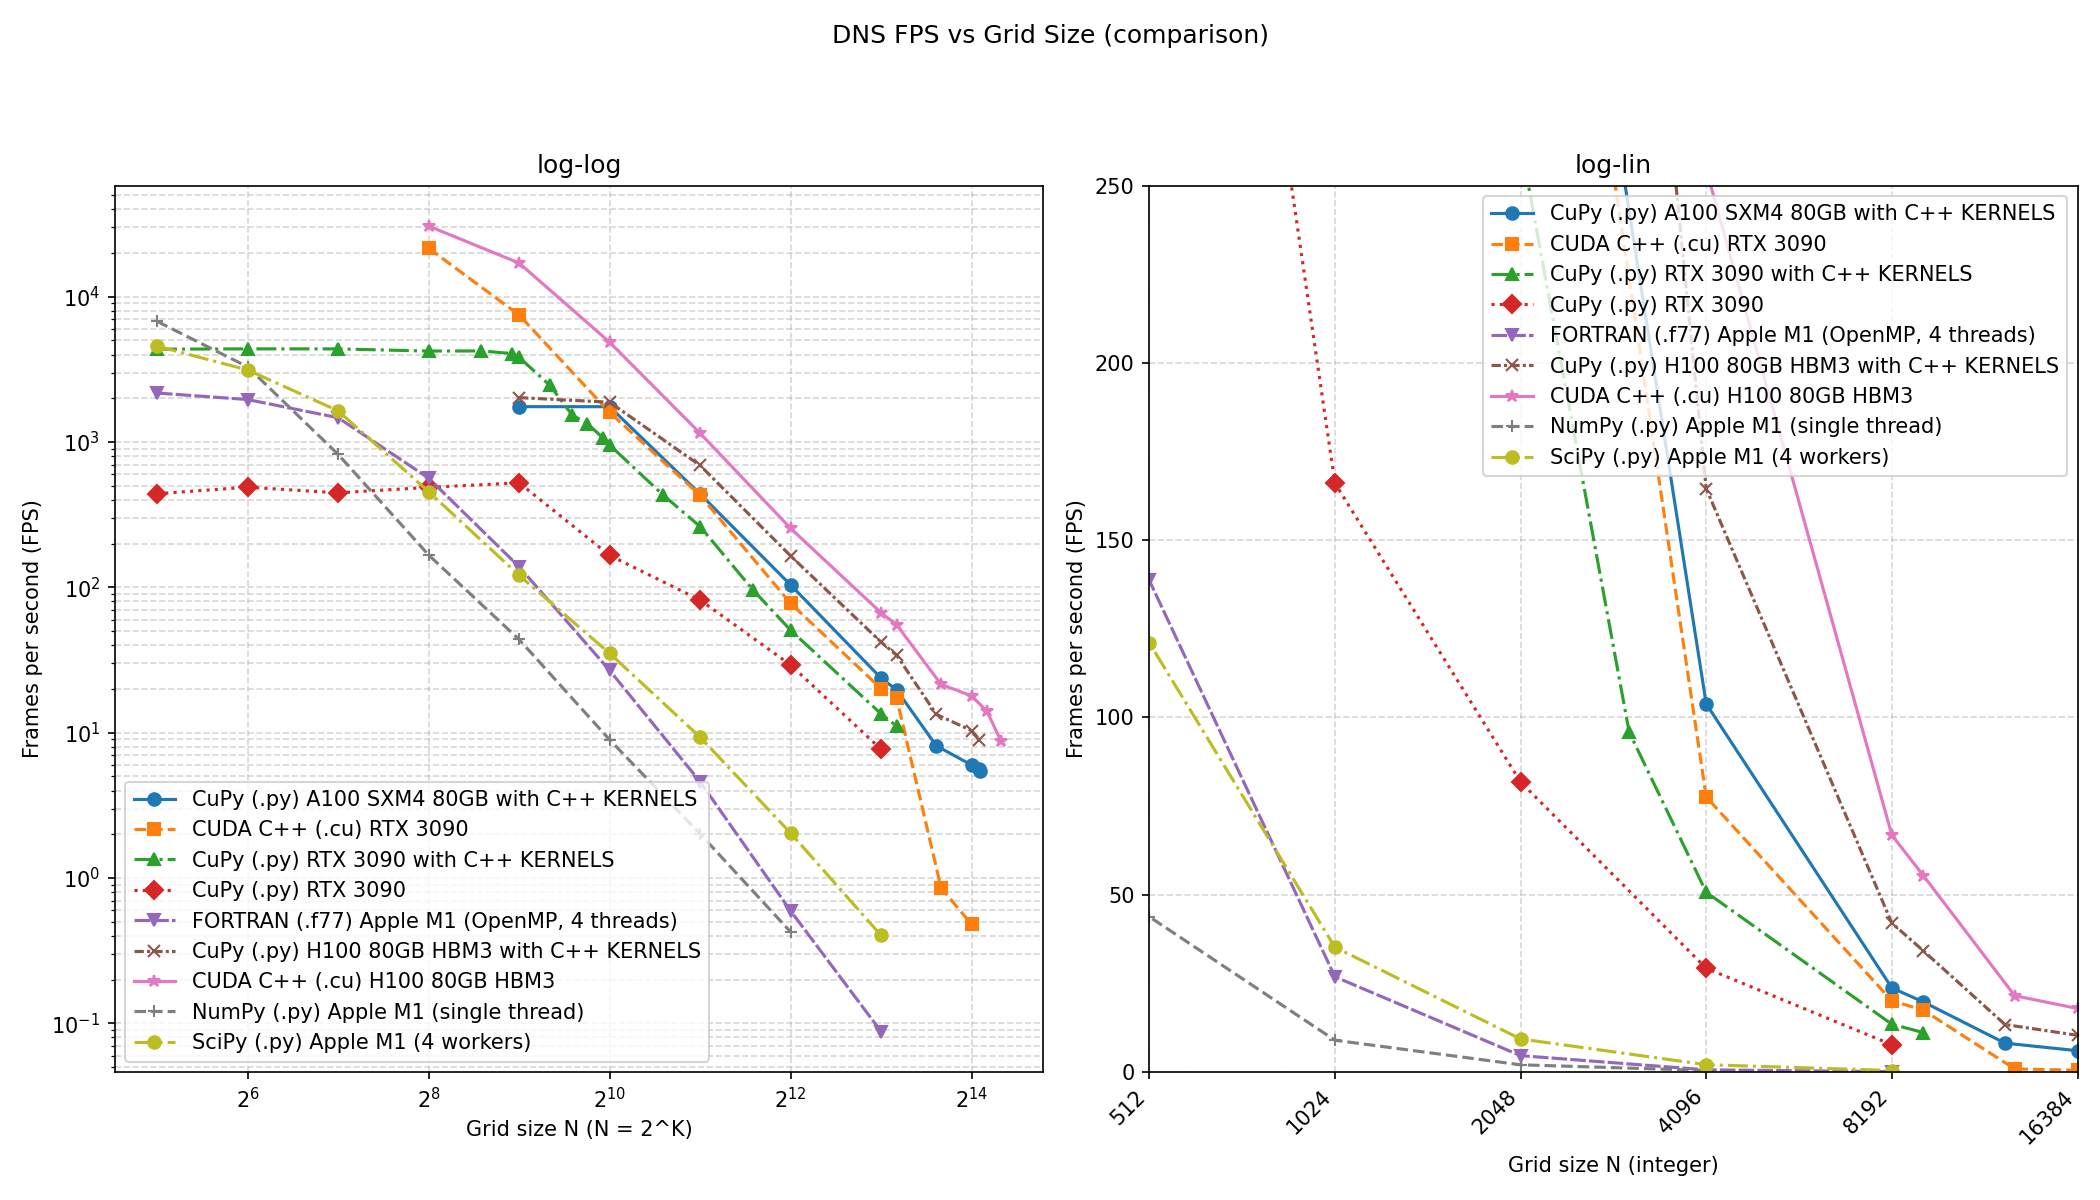
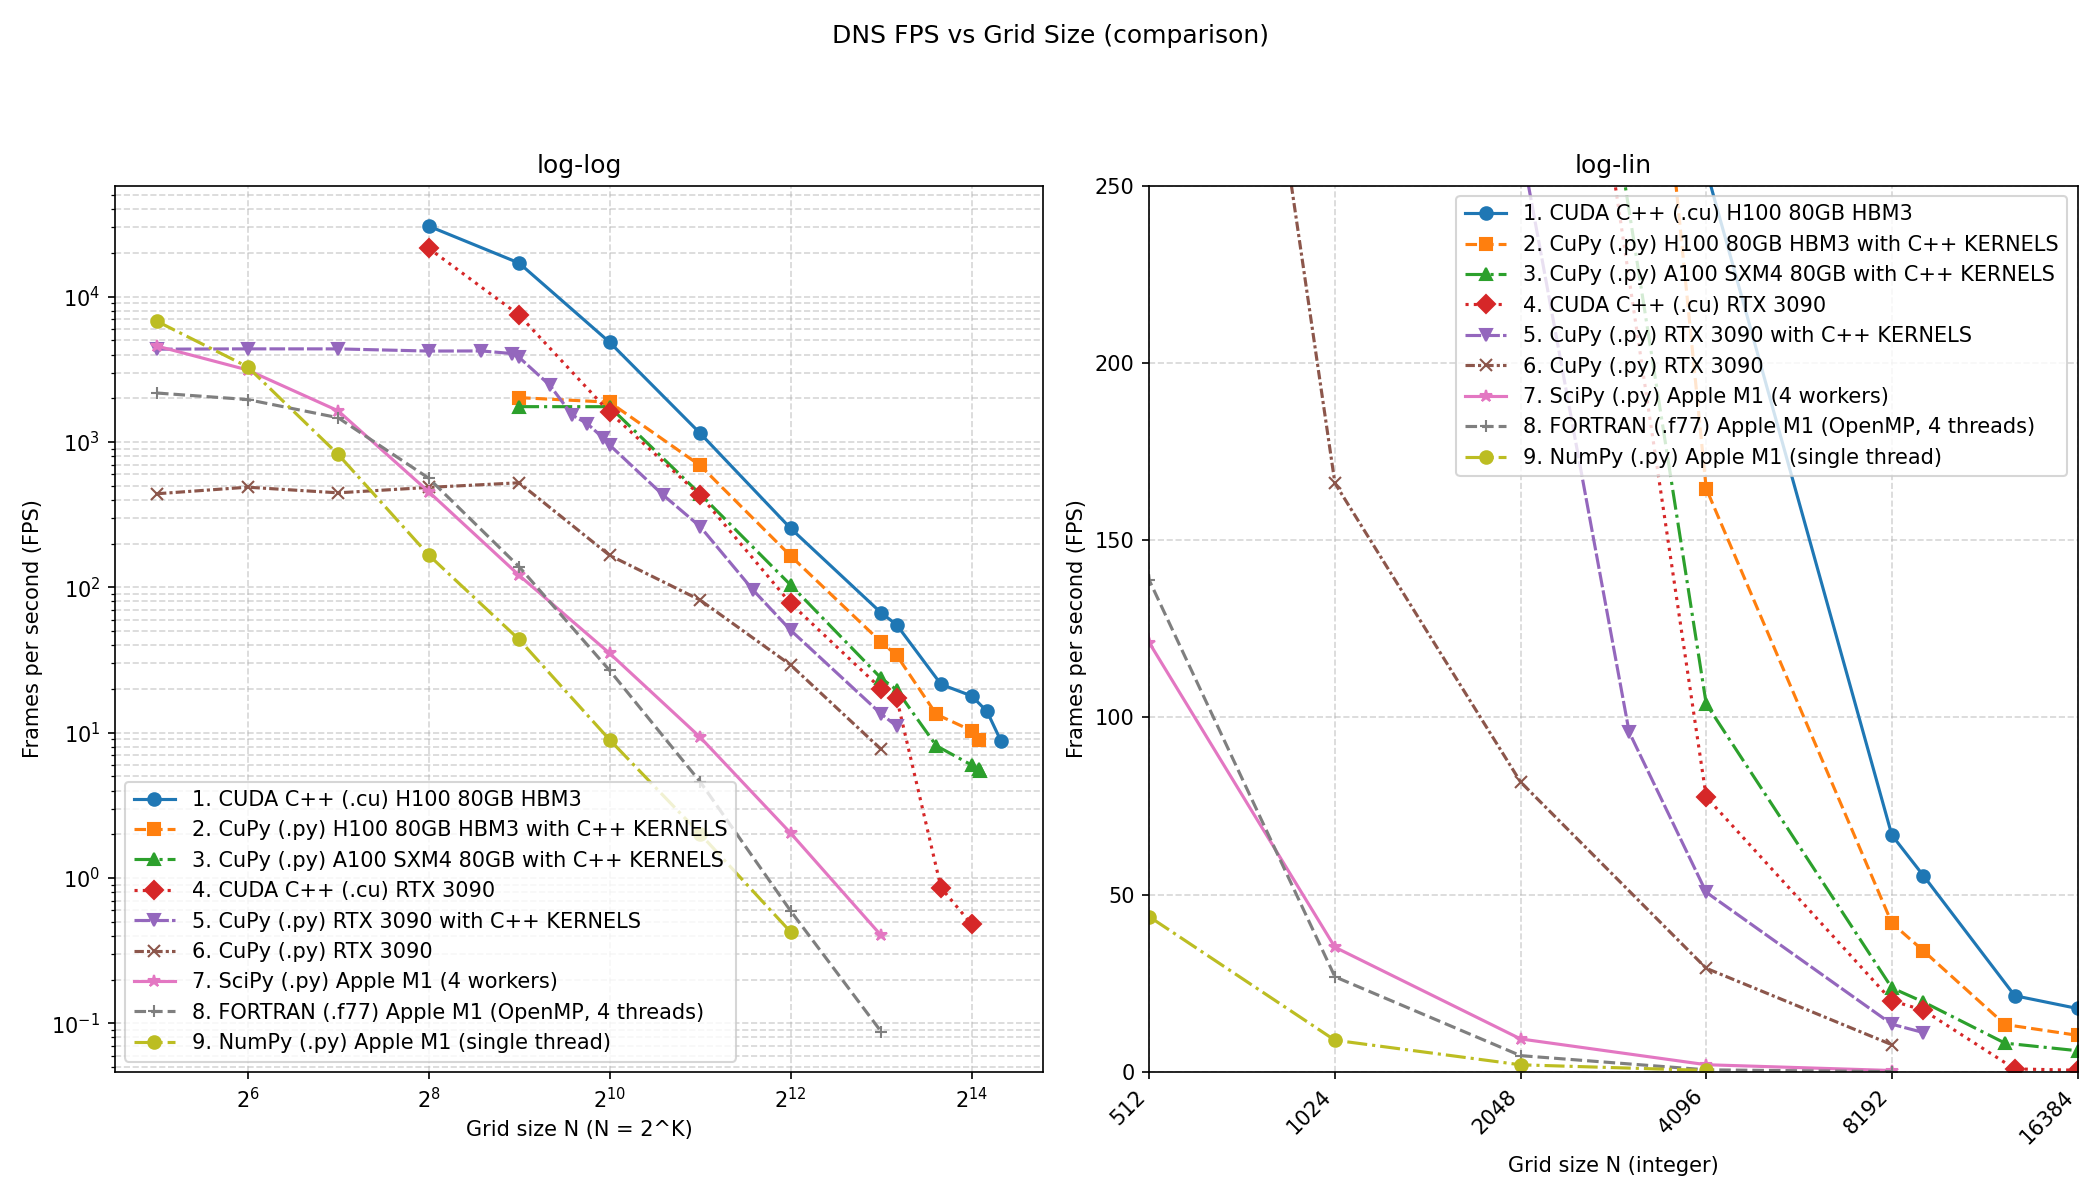
fps_at_n

diff --git a/fps/fps_compare.py b/fps/fps_compare.py
@@ -54,10 +54,23 @@ def load_nf(filename: str) -> Tuple[List[int], List[float]]:
     return n_vals, fps_vals
 
 
+def fps_at_n(n_vals: List[int], fps_vals: List[float], target: int) -> float:
+    for n, f in zip(n_vals, fps_vals):
+        if n == target:
+            return f
+    # nearest N if exact not found
+    closest = min(range(len(n_vals)), key=lambda i: abs(n_vals[i] - target))
+    return fps_vals[closest]
+
+
 def main() -> None:
     files = sorted(glob(CSV_GLOB))
     if not files:
         raise SystemExit(f"No CSV files found matching {CSV_GLOB}")
+
+    # Load all data, then sort by FPS at N=4096 descending
+    data = [(fn, *load_nf(fn)) for fn in files]
+    data.sort(key=lambda t: fps_at_n(t[1], t[2], 4096), reverse=True)
 
     markers = ["o", "s", "^", "D", "v", "x", "*", "+"]
     linestyles = ["-", "--", "-.", ":", (0, (5, 1)), (0, (3, 1, 1, 1))]
@@ -68,9 +81,8 @@ def main() -> None:
     all_n_min = None
     all_n_max = None
 
-    for i, fn in enumerate(files):
-        n, fps = load_nf(fn)
-        lbl = label_from_filename(fn)
+    for i, (fn, n, fps) in enumerate(data):
+        lbl = f"{i + 1}. {label_from_filename(fn)}"
         m = markers[i % len(markers)]
         ls = linestyles[i % len(linestyles)]
 
